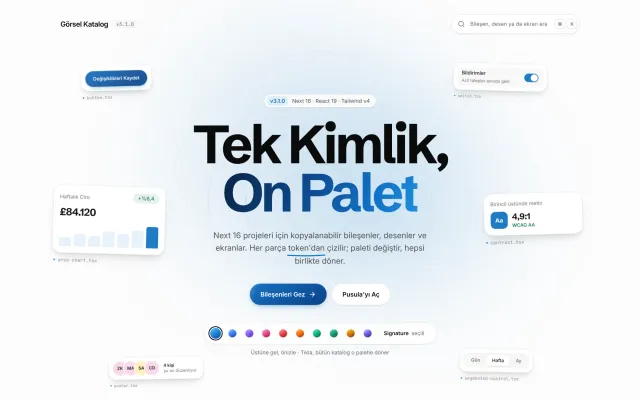
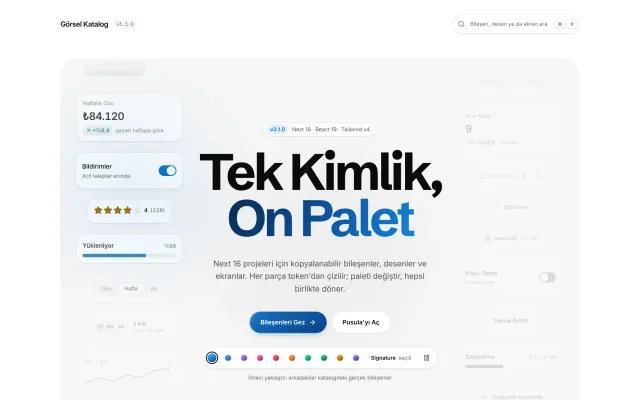
content(projeler): dev-starter kapağı Fener kahramanından
Claude-Session: https://claude.ai/code/session_01CjLDHjG5dMpvFQEoUac2GU

diff --git a/lib/content/project-shots.ts b/lib/content/project-shots.ts
@@ -16,7 +16,7 @@ import RENDITIONS from './shot-renditions.json'
  *   ikisini indirmeye gerek yok).
  * - dev-starter: 18 Kasım 2026'da Storybook kataloğundan yeniden çekildi (kapak ikinci kez:
  *   yeni Tanıtım kahramanı, 1440×900 görünümden 1,5 yoğunlukla; 1080 genişlikte
- *   yüzen bileşen numuneleri gizleniyordu)
+ *   yüzen bileşen numuneleri gizleniyordu; son çekim Fener kahramanı, imleç sol sütunda)
  *   (dev-starter-storybook.vercel.app; masaüstü Tanıtım sayfası, ikinci
  *   masaüstü ve telefon Pusula panosu, Signature paleti). 2 Kasım'daki
  *   çekimde masaüstü Giriş sayfasıydı; eskiden README afişi kapaktı.
